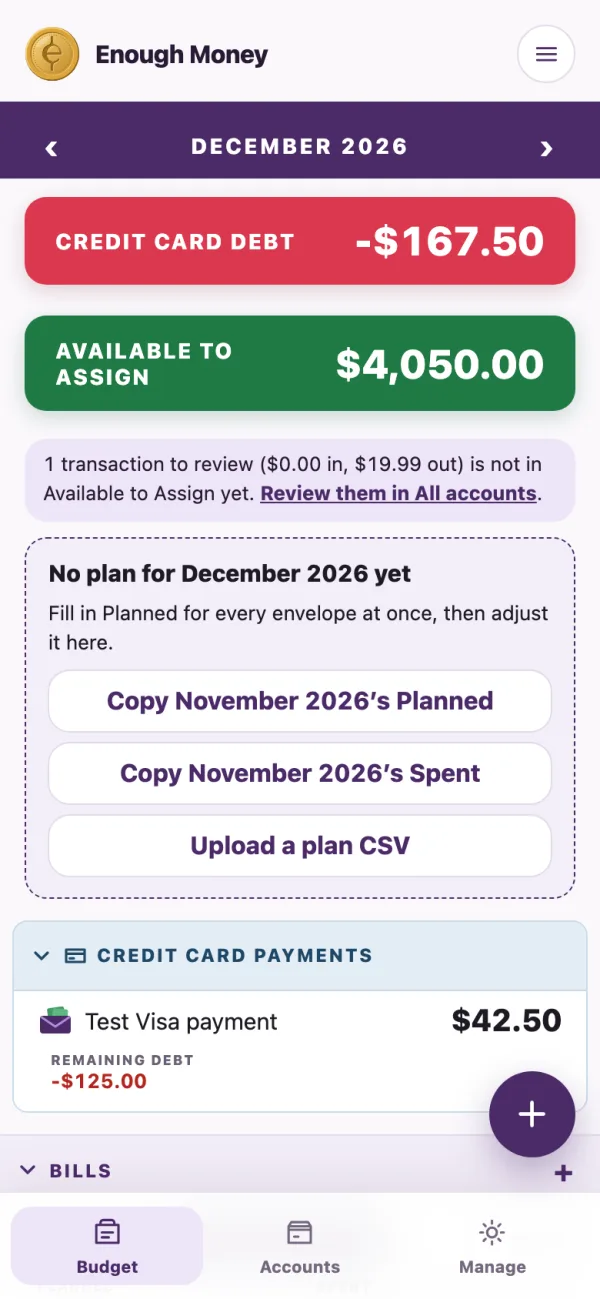
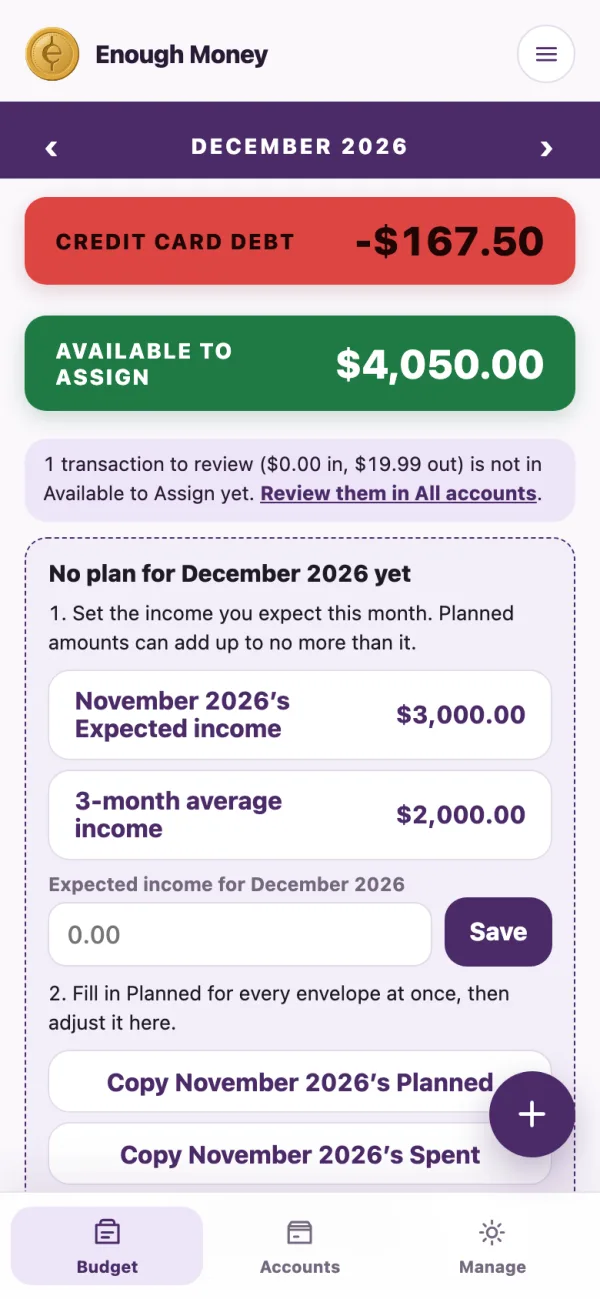
Set your Expected income as How it works step 3 (v0.55.1)
A new step 3 on the landing page, with a picture of the Expected income
dialog; Make a plan and Why it's different mention the income limit.
Test Household A now has $3,000.00 of Expected income last month and
this month, so the Budget pictures show the plan strip. All landing
pictures retaken.

diff --git a/landing/index.html b/landing/index.html
@@ -58,7 +58,7 @@
               src="/images/budget.webp"
               width="600"
               height="1299"
-              alt="The Budget page: Credit card debt and Available to Assign at the top, then envelopes with Planned, Spent and sparkling Saved amounts."
+              alt="The Budget page: Credit card debt and Available to Assign at the top, Planned against Expected income with what is left to plan, then envelopes with Planned, Spent and sparkling Saved amounts."
             />
           </figure>
         </div>
@@ -73,11 +73,11 @@
               <span class="point-number">1</span>
               <h3>Every month starts with a plan</h3>
               <p>
-                When a new month begins, Enough Money asks you to make a plan before you spend: how
-                much you mean to use from each envelope. Start fresh, copy last month's plan, or use
-                what you actually spent last month. All month long, Spent turns orange when it goes
-                past Planned, so you can see where you're drifting from the plan while there's still
-                time to adjust.
+                When a new month begins, Enough Money asks you to make a plan before you spend: the
+                income you expect, and how much you mean to use from each envelope, never more than
+                that income. Start fresh, copy last month's plan, or use what you actually spent
+                last month. All month long, Spent turns orange when it goes past Planned, so you can
+                see where you're drifting from the plan while there's still time to adjust.
               </p>
             </div>
             <figure class="phone">
@@ -86,7 +86,7 @@
                 width="600"
                 height="1299"
                 loading="lazy"
-                alt="A new month with no plan yet, offering to copy last month's Planned or Spent, or upload a plan."
+                alt="A new month with no plan yet: first the income you expect, with suggested amounts, then copying last month's Planned or Spent."
               />
             </figure>
           </article>
@@ -224,10 +224,28 @@
             <li class="step">
               <div class="step-text">
                 <p>
+                  <strong>Set your Expected income.</strong> Enter the income you expect this month,
+                  or tap a suggestion: last month's Expected income or income, or your 3-month
+                  average. Your Planned amounts can add up to no more than it.
+                </p>
+              </div>
+              <figure class="phone">
+                <img
+                  src="/images/expected-income.webp"
+                  width="600"
+                  height="1299"
+                  loading="lazy"
+                  alt="The Expected income dialog: income so far, suggested amounts from last month and the 3-month average, and the amount field."
+                />
+              </figure>
+            </li>
+            <li class="step">
+              <div class="step-text">
+                <p>
                   <strong>Make a plan.</strong> Decide how much money you plan to use from each
-                  envelope this month, and enter it as that envelope's Planned amount. In later
-                  months, you can start a new plan, copy last month's plan, or use last month's
-                  actual spending as your new plan.
+                  envelope this month, and enter it as that envelope's Planned amount, up to your
+                  Expected income. In later months, you can start a new plan, copy last month's
+                  plan, or use last month's actual spending as your new plan.
                 </p>
               </div>
               <figure class="phone">
@@ -236,7 +254,7 @@
                   width="600"
                   height="1299"
                   loading="lazy"
-                  alt="A new month with no plan yet, offering to copy last month's Planned or Spent, or upload a plan."
+                  alt="A new month with no plan yet: first the income you expect, with suggested amounts, then copying last month's Planned or Spent."
                 />
               </figure>
             </li>

diff --git a/landing-screenshots/shots.spec.ts b/landing-screenshots/shots.spec.ts
@@ -119,3 +119,10 @@ test("a new month offers last month's plan", async ({ page }) => {
   await page.getByRole("heading", { name: /No plan for/ }).scrollIntoViewIfNeeded();
   await shot(page, "new-month");
 });
+
+test("setting this month's Expected income", async ({ page }) => {
+  await signIn(page);
+  await page.getByRole("region", { name: "Plan" }).getByRole("button").click();
+  await page.getByRole("dialog").getByRole("group", { name: "Suggested amounts" }).waitFor();
+  await shot(page, "expected-income");
+});

diff --git a/scripts/seed-test-db.ts b/scripts/seed-test-db.ts
@@ -293,6 +293,13 @@ async function seedHouseholdA(db: Client): Promise<void> {
       await w.plan(envelope, m, planned);
       await w.assign(envelope, m, assigned);
     }
+    // $3,000.00 of Expected income, so $850.00 is left to plan.
+    check(
+      await db
+        .from("month_plans")
+        .insert({ household_id: householdId, month: m, expected_income: 300_000 }),
+      "set expected income",
+    );
   }
   // Cash set aside to pay the card this month.
   await w.assign(payment, now, 15_000);

diff --git a/docs/testing.md b/docs/testing.md
@@ -58,10 +58,10 @@ or if a production build points at the test project.
   `adjust_category_month`, `save_transaction`, `save_transfer`, …), so the
   same triggers and policies apply.
 
-| User                      | Household        | Data                                                                                                                                                                                                                                                                                                                                    |
-| ------------------------- | ---------------- | --------------------------------------------------------------------------------------------------------------------------------------------------------------------------------------------------------------------------------------------------------------------------------------------------------------------------------------- |
-| `test-a@budgetbuddy.test` | Test Household A | Test Checking ($2,500.00 opening) and Test Visa ($300.00 owed); Bills (Rent, Utilities) and Everyday (Groceries, Dining Out, Fun Money) with Planned and Assigned last month and this month; salary income and a "salary" income rule; categorized spending; an Uncategorized charge; a split; a card payment (transfer); a card credit |
-| `test-b@budgetbuddy.test` | Test Household B | B Checking, one envelope (B Groceries), income and one expense: used to prove A cannot see or change it                                                                                                                                                                                                                                 |
+| User                      | Household        | Data                                                                                                                                                                                                                                                                                                                                                                             |
+| ------------------------- | ---------------- | -------------------------------------------------------------------------------------------------------------------------------------------------------------------------------------------------------------------------------------------------------------------------------------------------------------------------------------------------------------------------------- |
+| `test-a@budgetbuddy.test` | Test Household A | Test Checking ($2,500.00 opening) and Test Visa ($300.00 owed); Bills (Rent, Utilities) and Everyday (Groceries, Dining Out, Fun Money) with Planned and Assigned last month and this month and $3,000.00 of Expected income in each; salary income and a "salary" income rule; categorized spending; an Uncategorized charge; a split; a card payment (transfer); a card credit |
+| `test-b@budgetbuddy.test` | Test Household B | B Checking, one envelope (B Groceries), income and one expense: used to prove A cannot see or change it                                                                                                                                                                                                                                                                          |
 
 Run it again any time; the integration tests run it before every run.
 

diff --git a/docs/SPEC.md b/docs/SPEC.md
@@ -9,7 +9,7 @@ sources together are the full picture; when they disagree, fix the docs:
 | `supabase/migrations/*.sql` | The exact database: columns, constraints, SQL, RLS |
 | This file                   | Everything else: structure, screens, import, look  |
 
-Version described: 0.55.0.
+Version described: 0.55.1.
 
 ## 1. Purpose
 
@@ -106,8 +106,8 @@ always show what the store holds.
   starts with a plan; then envelopes can't go negative, no autopilot,
   leftover money becomes Saved, debt stays in view), "How it
   works" (set up once: add accounts, create envelopes; then every month:
-  make a plan, assign, record spending, reconcile, watch Saved grow, as
-  numbered cards with pictures, and two unnumbered ones: no money, no
+  set Expected income (v0.55.1), make a plan, assign, record
+  spending, reconcile, watch Saved grow, as numbered cards with pictures, and two unnumbered ones: no money, no
   spending, and reviewing imported transactions; v0.54.1), an FAQ and a closing band, each picture a phone screenshot
   in `landing/images/` (see Commands). `legacy-redirect.js` sends old
   `/#route` links and home screen icons saved before v0.43.0 to `/app/`,
@@ -1340,8 +1340,6 @@ Decided or wanted, but not in the app:
   and whether it shows in Compact rows.
 - A short "what's new" blurb in the Refresh banner (`useAppUpdate`),
   written for each release. The owner reviews every blurb before it ships.
-- Landing page How it works: a new step 3, before Make a plan, to work out
-  how much income you'll have this month.
 - Editing an income rule (delete and re-add instead).
 - Budget page: an icon chosen per envelope (every row shows the same
   envelope icon, `EnvelopeIcon`; Manage shows none); the page menu on a
